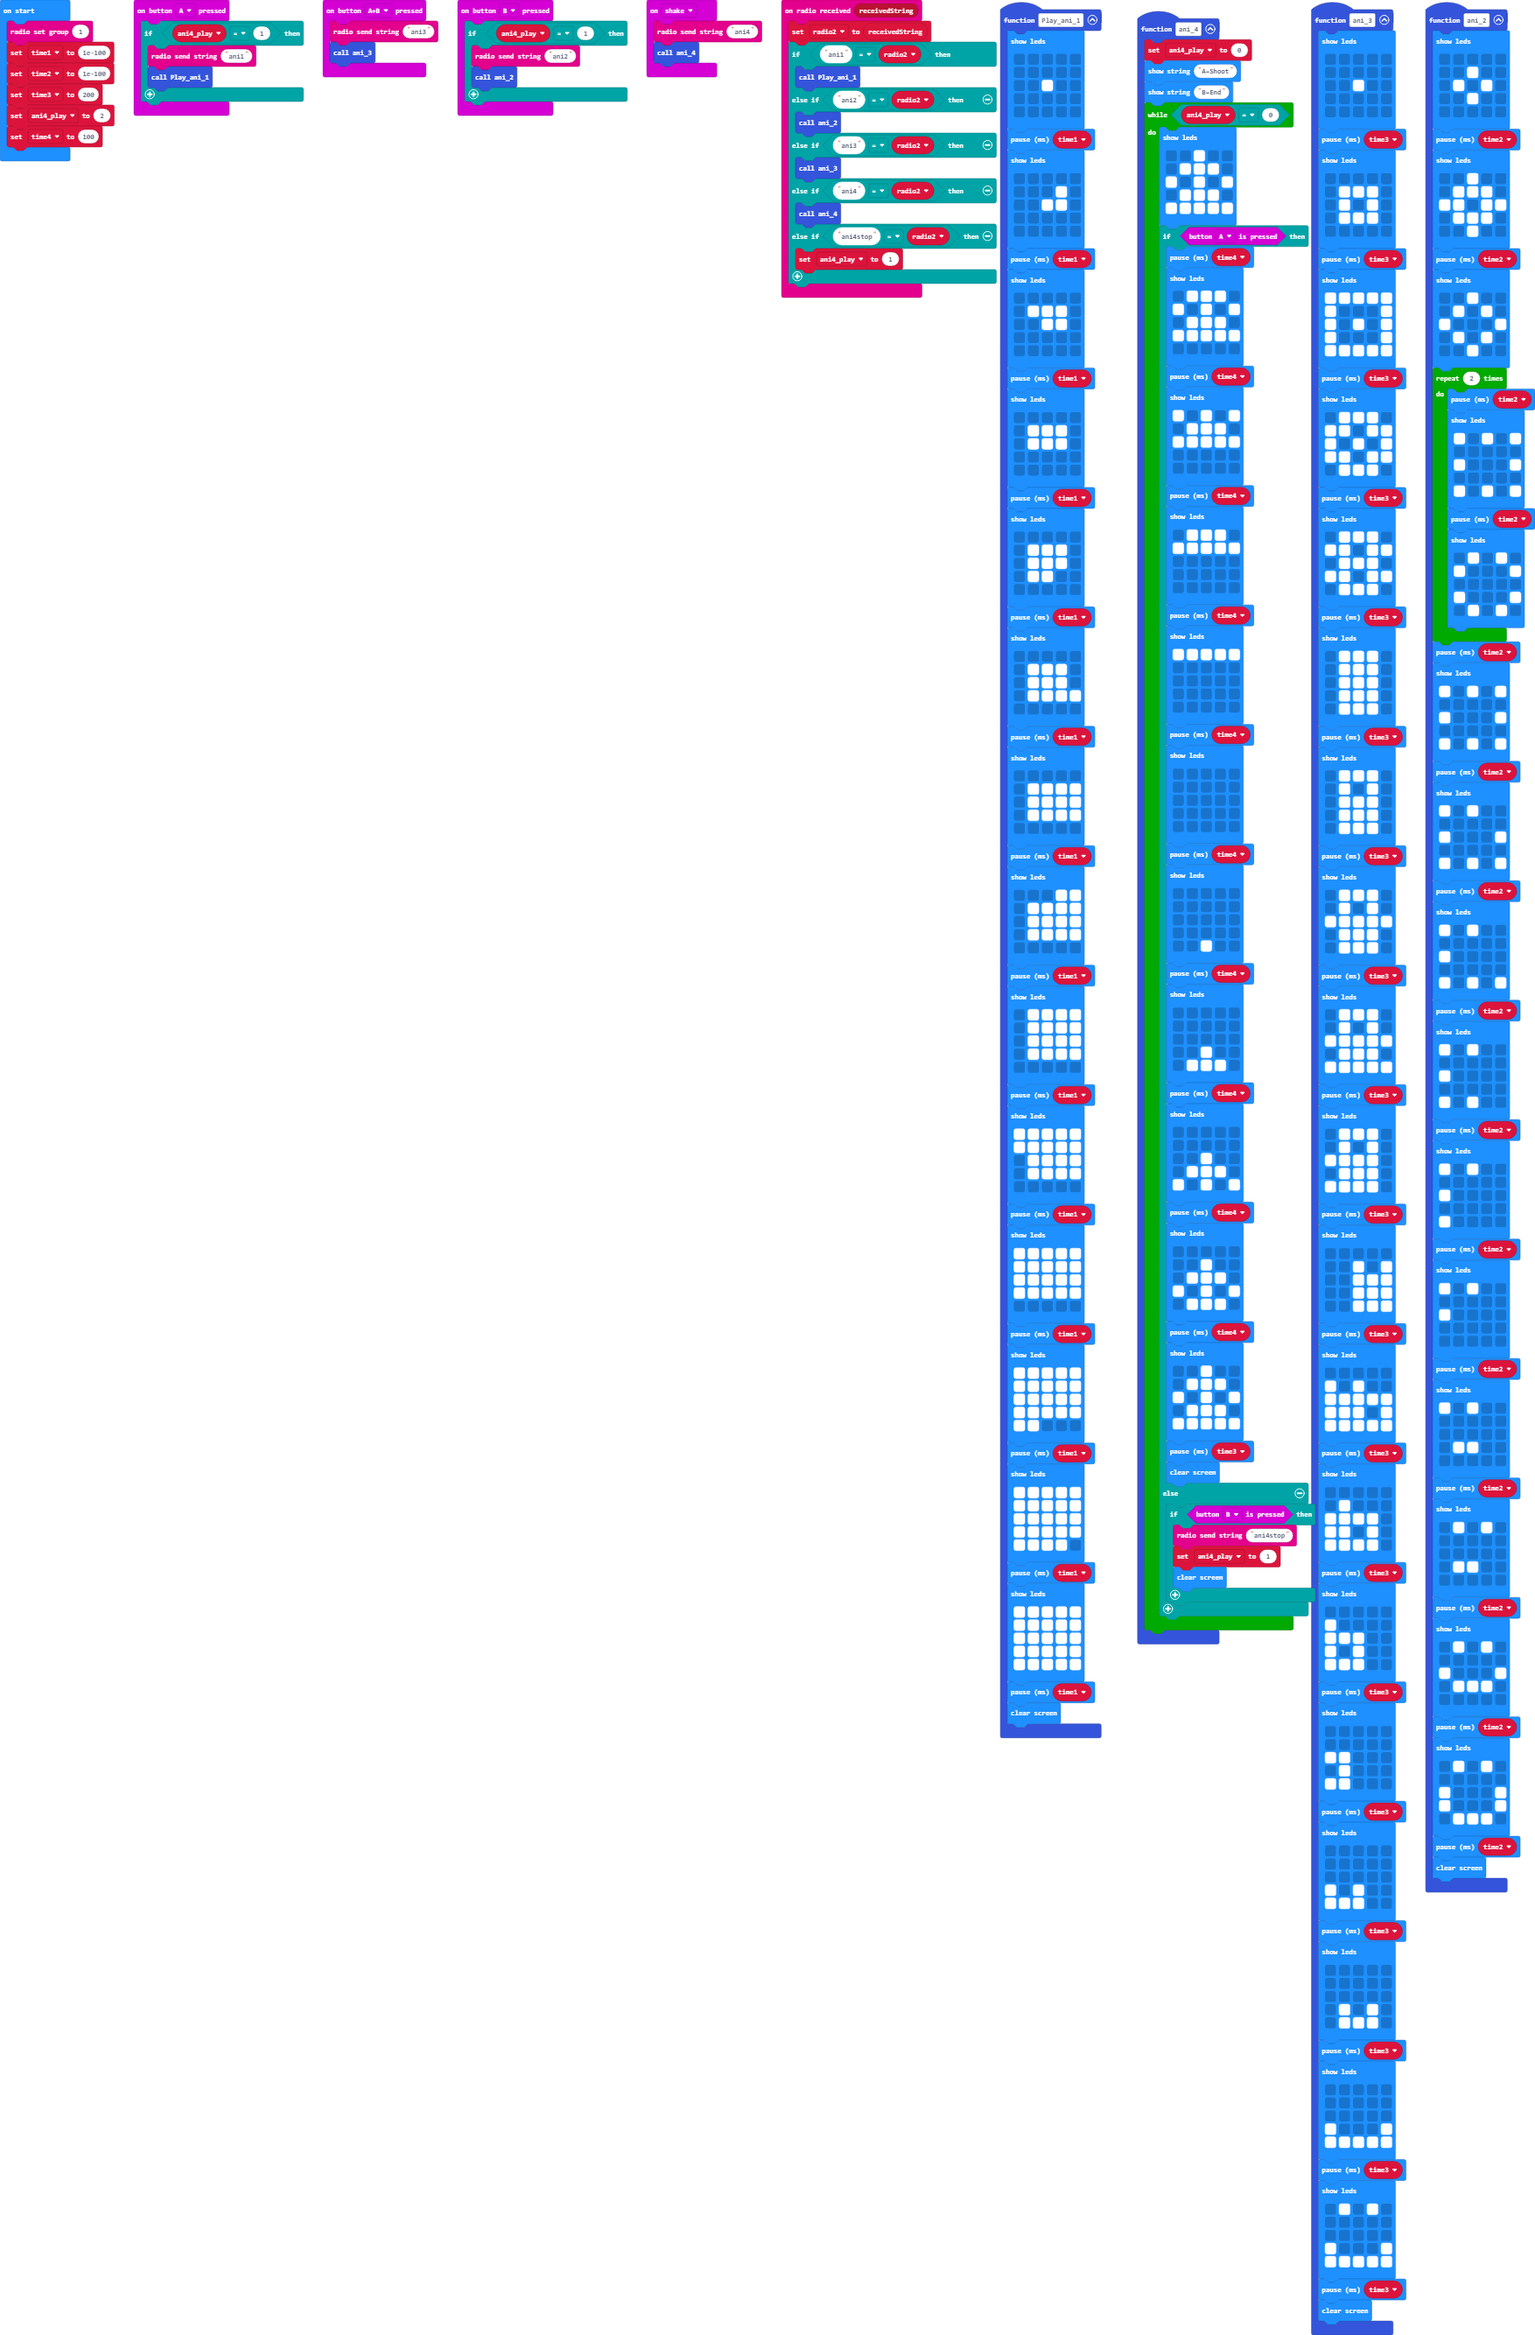
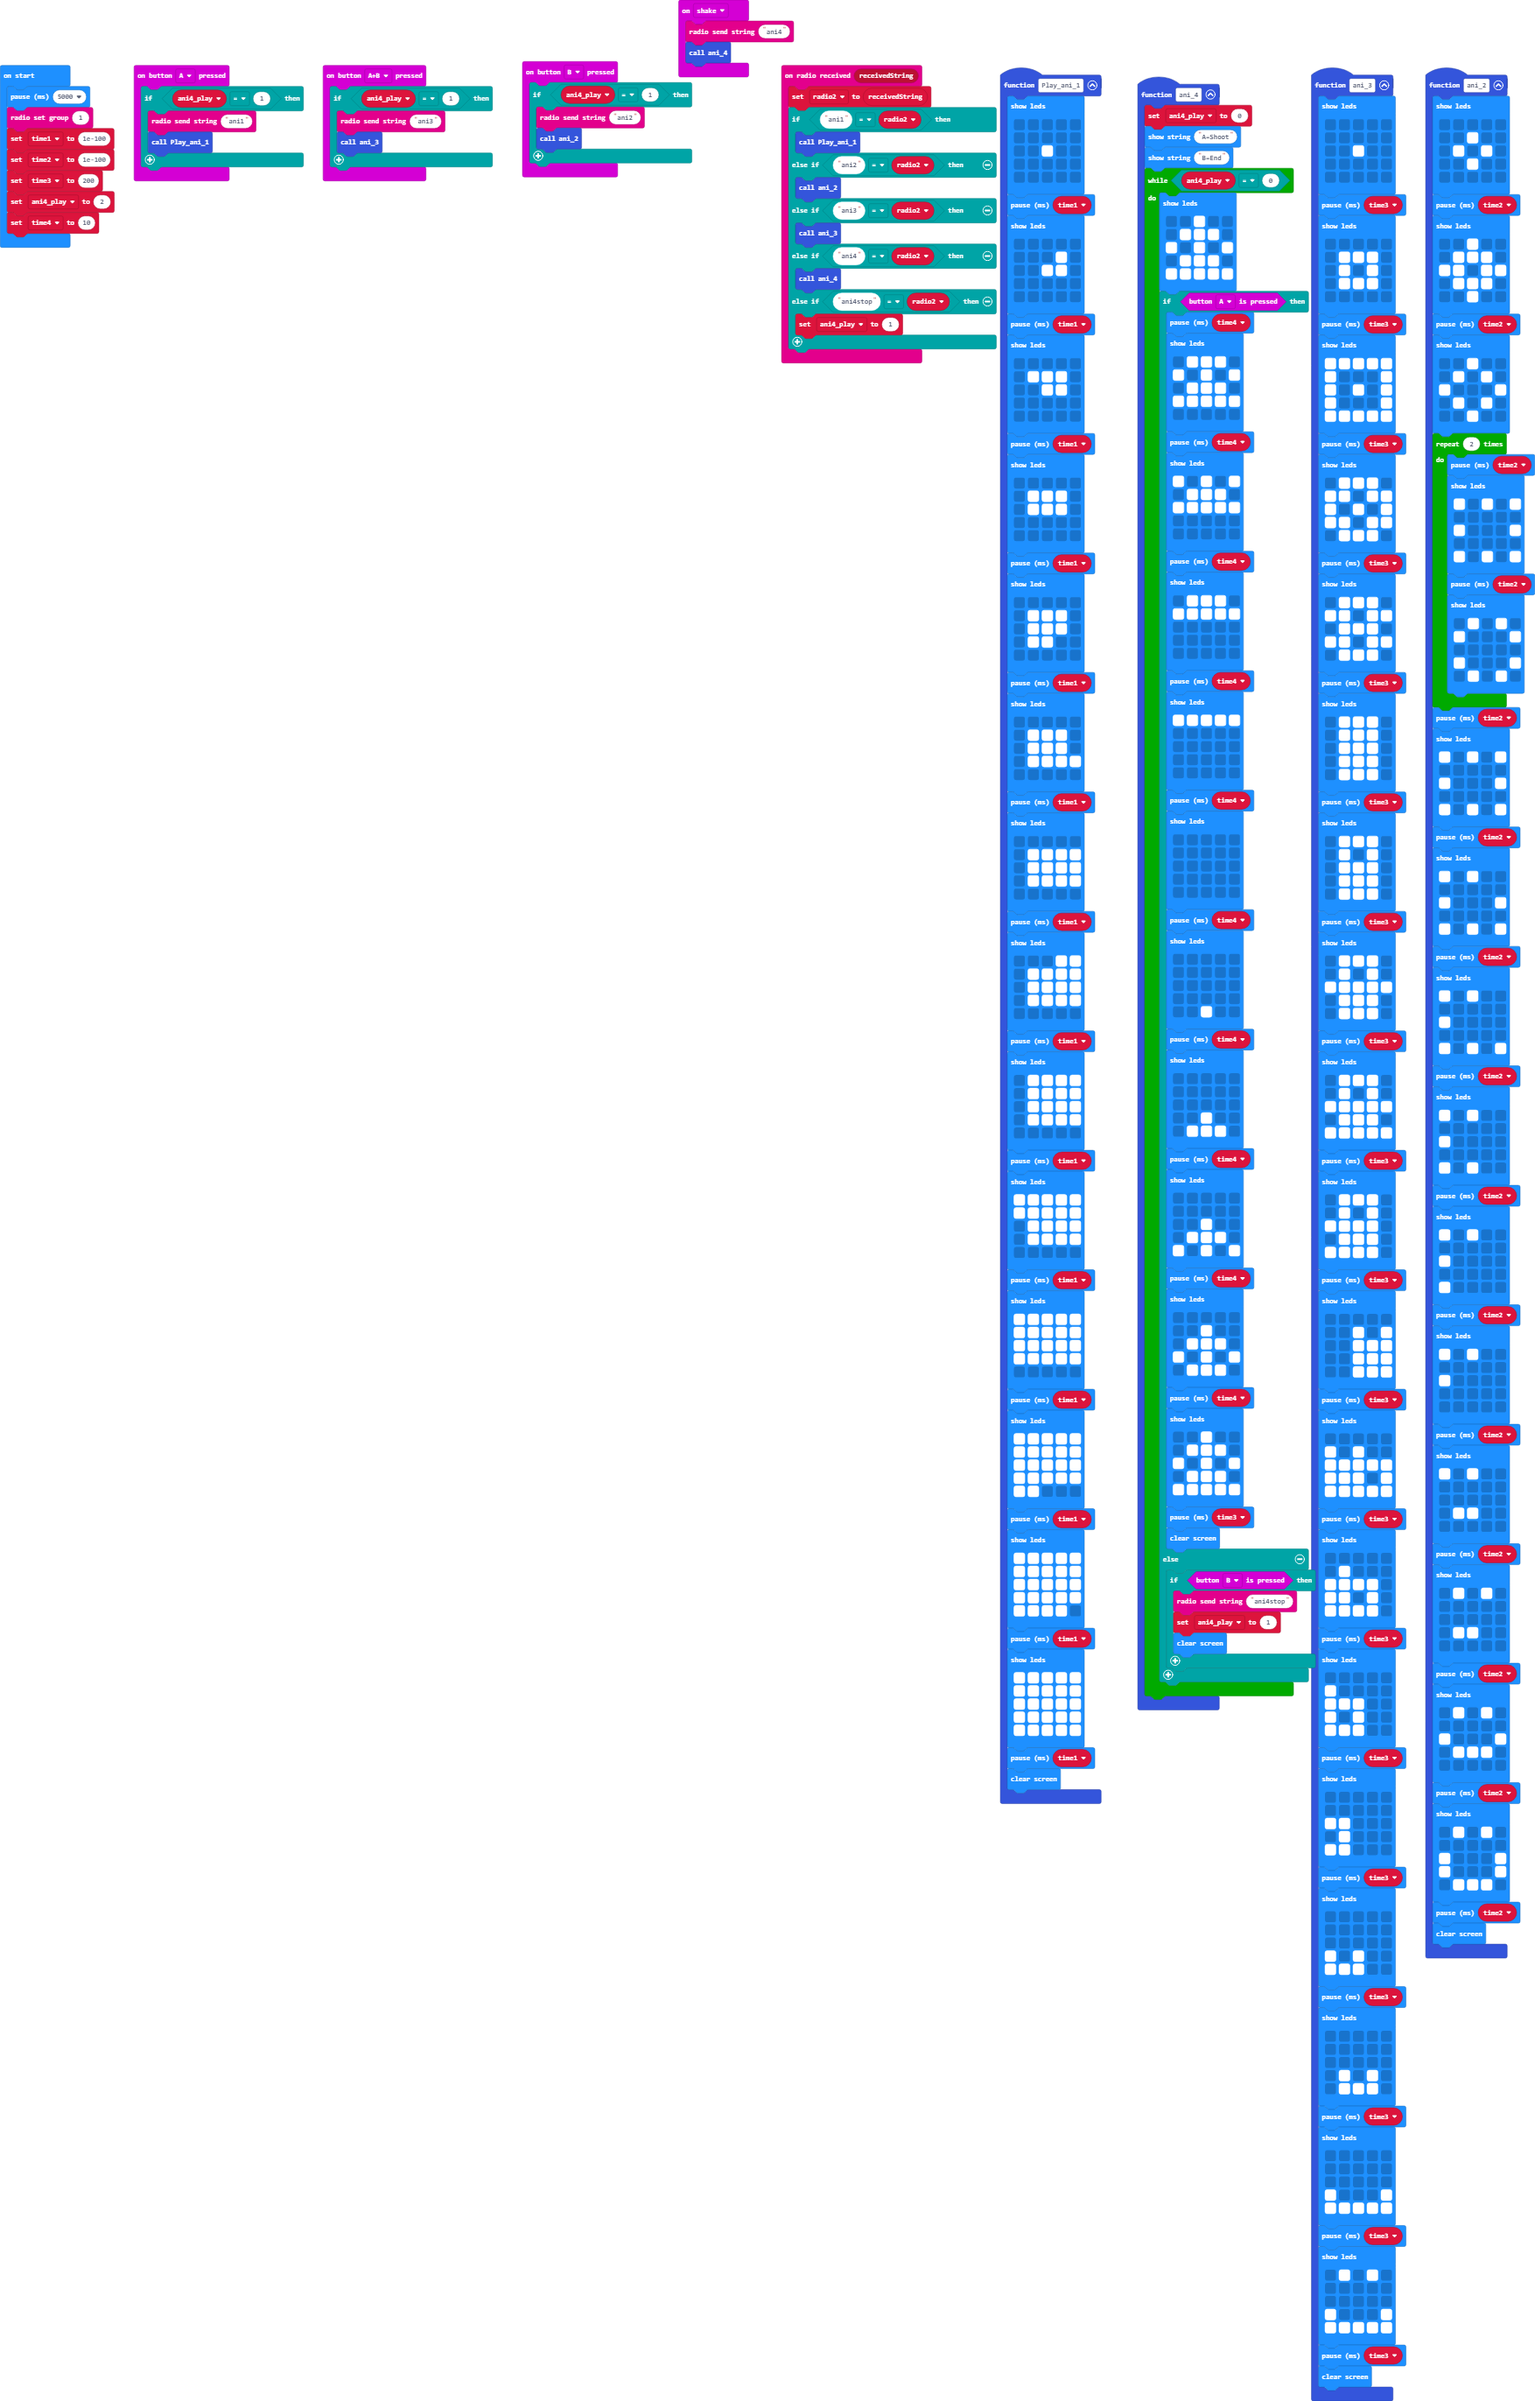
Update main.blocks, main.ts

Changed region(s): [[0.0, 0.0, 1.0, 0.9955]]

diff --git a/main.ts b/main.ts
@@ -120,8 +120,10 @@ function Play_ani_1 () {
     basic.clearScreen()
 }
 input.onButtonPressed(Button.AB, function () {
-    radio.sendString("ani3")
-    ani_3()
+    if (ani4_play == 1) {
+        radio.sendString("ani3")
+        ani_3()
+    }
 })
 radio.onReceivedString(function (receivedString) {
     radio2 = receivedString
@@ -537,9 +539,10 @@ let ani4_play = 0
 let time3 = 0
 let time2 = 0
 let time1 = 0
+basic.pause(5000)
 radio.setGroup(1)
 time1 = 1e-100
 time2 = 1e-100
 time3 = 200
 ani4_play = 2
-time4 = 100
+time4 = 10
